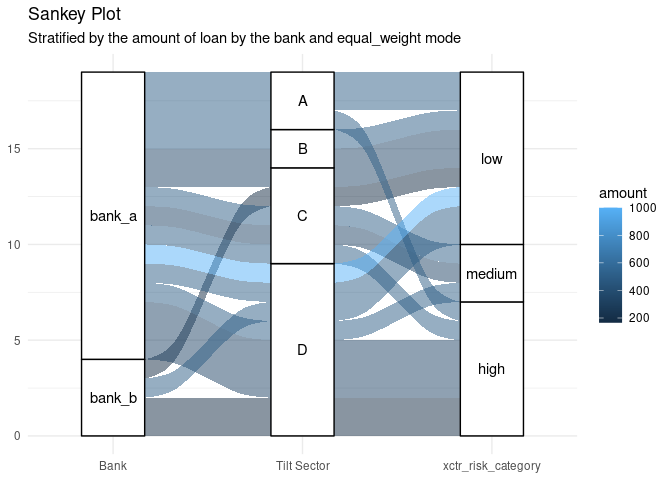
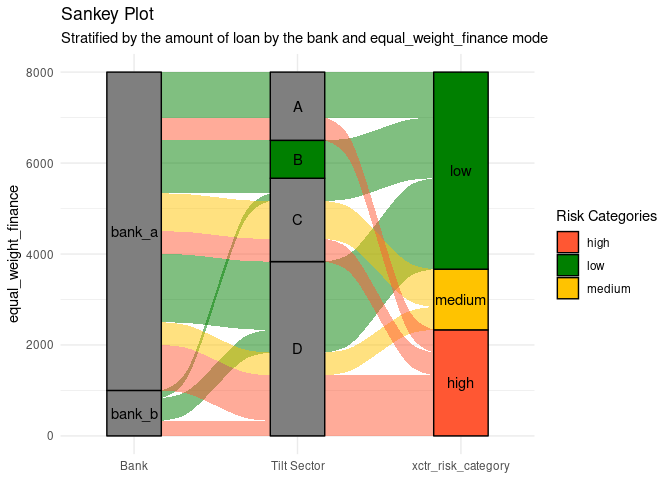
changed color scaled to corresponds to the risk categories values

diff --git a/README.md b/README.md
@@ -72,7 +72,7 @@ Finally, the user can choose different modes to plot the Sankey plot if
 financial data is available.
 
 ``` r
-plot_sankey(fin, with_company = FALSE, mode = "best_case")
+plot_sankey(fin, with_company = FALSE, mode = "best_case_finance")
 ```
 
 <img src="man/figures/README-unnamed-chunk-6-1.png" width="100%" />
